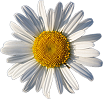
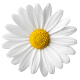
replace daisy

diff --git a/minesweeper.css b/minesweeper.css
@@ -41,7 +41,7 @@ body {
 }
 
 .board div.mine, div.mine:hover {
-  background: no-repeat center/60% url("images/daisy.png") palevioletred;
+  background: no-repeat center/100% url("images/daisy.png") palevioletred;
 }
 
 .board div.hidden {
